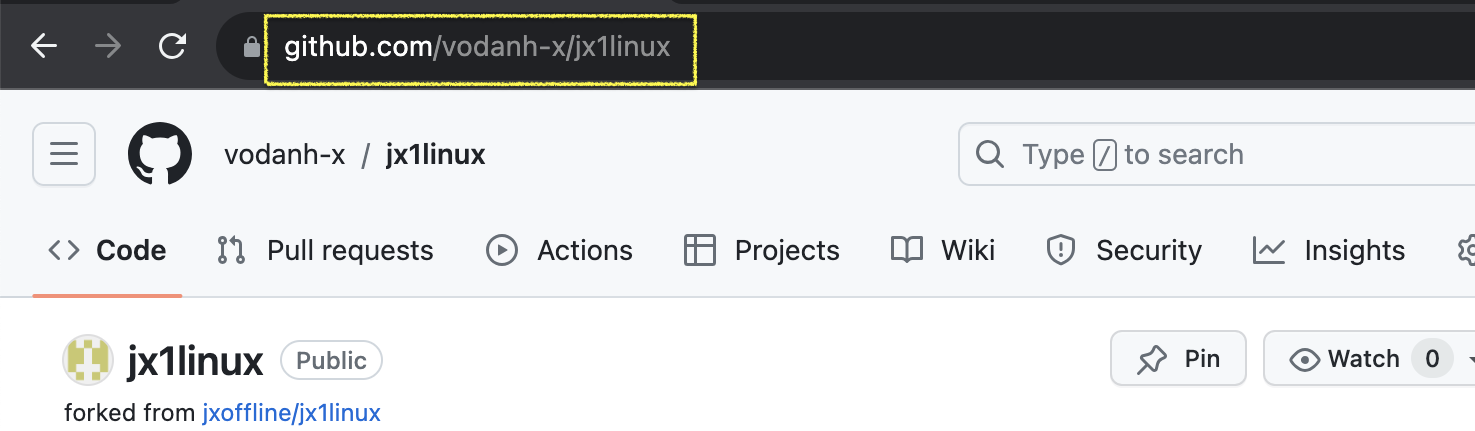
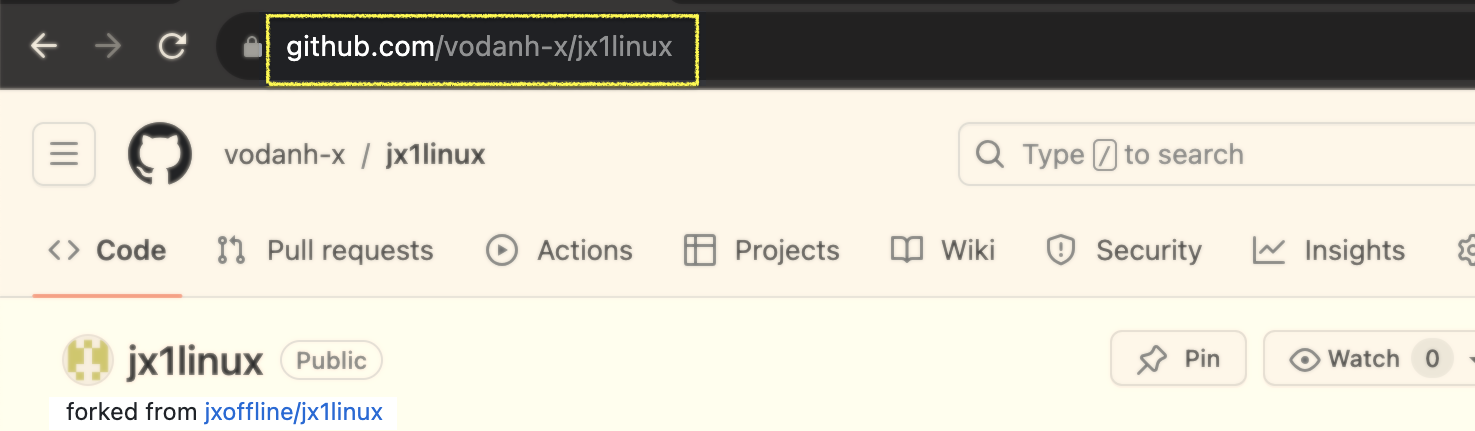
chore: Định dạng ảnh xám trong Hướng dẫn đóng góp dễ nhìn hơn

diff --git a/README.md b/README.md
@@ -68,9 +68,9 @@ Khi đặt tên nhánh cần tuân theo quy ước như sau:
   - **script**: chỉnh sửa bao gồm các tập tin scripts và tập tin cấu hình ini, txt.
   - **feat**: (viết tắt của feature) dùng khi bạn muốn đăng lên một tính năng lớn, trong nhánh gồm nhiều thay đổi về `script`, có khi kèm cả các tài liệu `doc` và file nhị phân `bin`.
 
-### 2.2 [Các bước thực hiện](./HowToContribute.md)
+### 2.2 [Các bước thực hiện](./CONTRIBUTING.md)
 
-Xem chi tiết tại [ĐÂY](./HowToContribute.md)
+Xem chi tiết tại [ĐÂY](./CONTRIBUTING.md)
 
 
 ## 3. 🕹Hướng dẫn cài đặt
